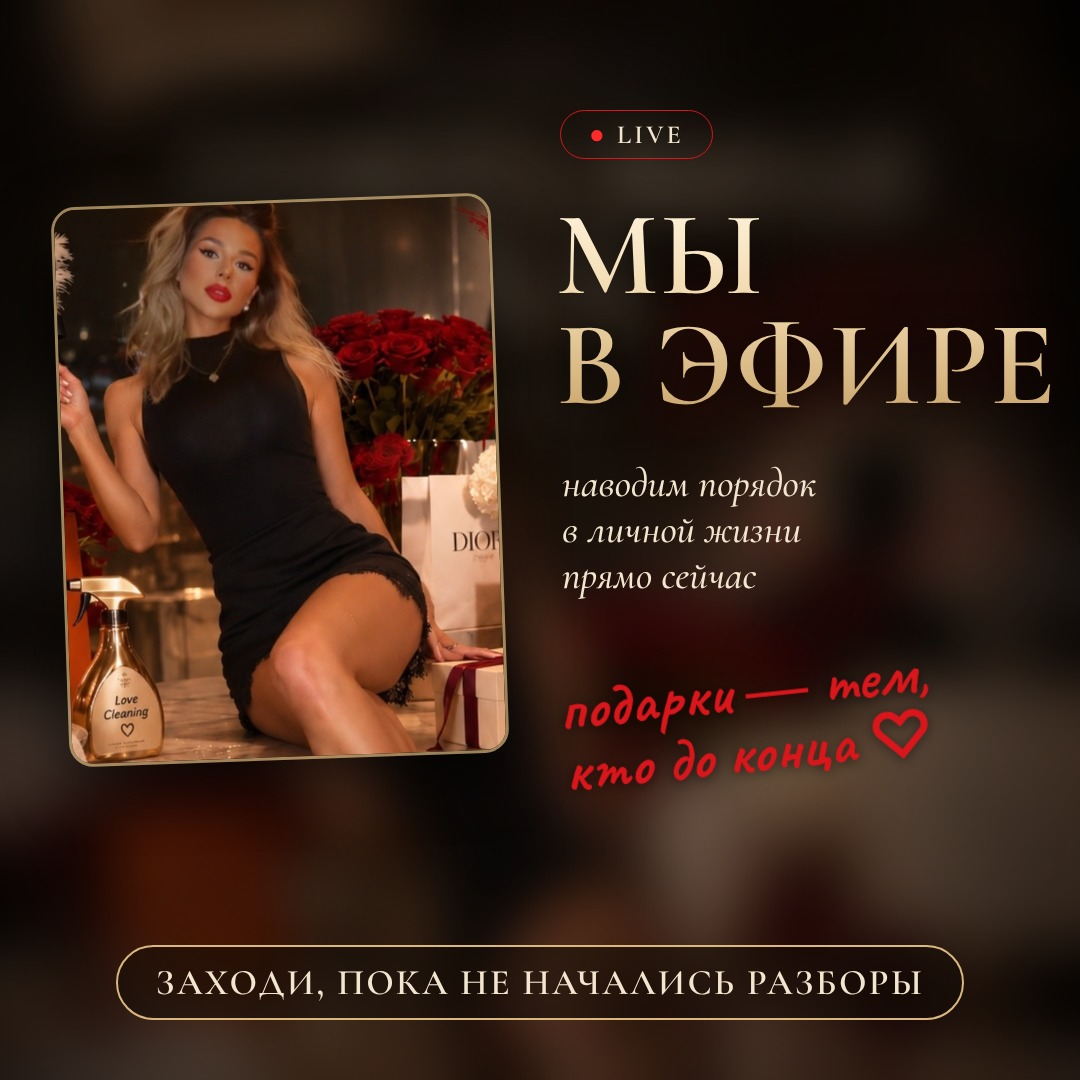
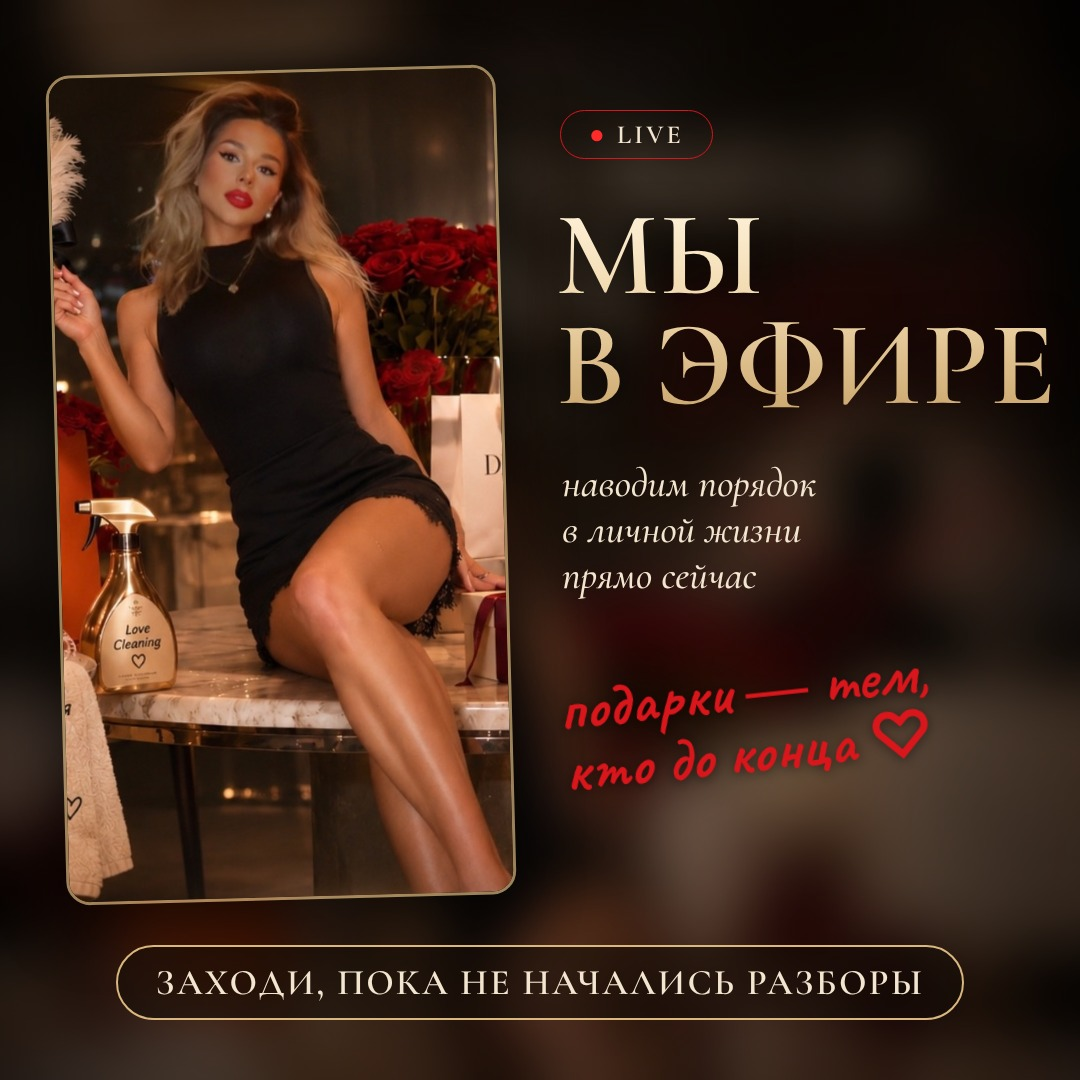
Обложки бота: подарочные коробки, фото без обрезки, жирный будильник
Claude-Session: https://claude.ai/code/session_01QvxPhZFmoV4wpS6odsdhe8

Changed region(s): [[0.0306, 0.0611, 0.4889, 0.8556]]

diff --git a/guides/src/bot_covers_2.js b/guides/src/bot_covers_2.js
@@ -2,6 +2,7 @@ const { chromium } = require('/opt/node22/lib/node_modules/playwright');
 const fs = require('fs'); const D = '/tmp/claude-0/-home-user-Ksu/f6de9bb4-c307-550f-96d3-574c512c8005/scratchpad/bc'; const F = '/tmp/claude-0/-home-user-Ksu/f6de9bb4-c307-550f-96d3-574c512c8005/scratchpad/mdw/w/node_modules/@fontsource';
 const css = `
 @font-face{font-family:Corm;font-weight:600;src:url(file://${F}/cormorant-garamond/files/cormorant-garamond-cyrillic-600-normal.woff2)}
+@font-face{font-family:Corm;font-weight:700;src:url(file://${F}/cormorant-garamond/files/cormorant-garamond-cyrillic-700-normal.woff2)}
 @font-face{font-family:Corm;font-weight:600;src:url(file://${F}/cormorant-garamond/files/cormorant-garamond-latin-600-normal.woff2);unicode-range:U+0000-00FF}
 @font-face{font-family:CormI;font-style:italic;font-weight:500;src:url(file://${F}/cormorant-garamond/files/cormorant-garamond-cyrillic-500-italic.woff2)}
 @font-face{font-family:CormI;font-style:italic;font-weight:500;src:url(file://${F}/cormorant-garamond/files/cormorant-garamond-latin-500-italic.woff2);unicode-range:U+0000-00FF}
@@ -25,6 +26,17 @@ body{width:1080px;height:1080px;overflow:hidden;position:relative;background:#12
 .paper{background:#efe4d0;color:#2a1a12;border-radius:6px;padding:22px 26px;box-shadow:0 12px 30px rgba(0,0,0,.5);font-family:Cav;font-weight:700}
 .abs{position:absolute}
 .mont{font-family:Mont;font-weight:500}
+.box{position:absolute;width:300px;height:220px}
+.box .lid{position:absolute;left:-8px;right:-8px;top:0;height:46px;border-radius:4px;box-shadow:0 6px 14px rgba(0,0,0,.35)}
+.box .body{position:absolute;left:0;right:0;top:40px;bottom:0;border-radius:3px;box-shadow:0 18px 40px rgba(0,0,0,.55);display:flex;align-items:center;justify-content:center;padding:12px 26px;text-align:center}
+.box .rv{position:absolute;left:50%;top:0;bottom:0;width:18px;margin-left:-9px}
+.box .bow{position:absolute;left:50%;top:-30px;width:120px;margin-left:-60px;height:44px}
+.box .bow i{position:absolute;top:6px;width:56px;height:30px;border-radius:50%}
+.box .bow i:first-child{left:0;transform:rotate(-14deg)}.box .bow i:last-child{right:0;transform:rotate(14deg)}
+.box .bow b{position:absolute;left:50%;top:12px;width:20px;height:20px;margin-left:-10px;border-radius:5px}
+.box .t{position:relative;z-index:2;font-family:Corm;font-weight:600;font-size:31px;line-height:1.02;text-transform:uppercase;letter-spacing:.02em;padding:8px 12px;border-radius:4px}
+.pill2{display:inline-block;border-radius:60px;padding:16px 44px;font-family:Corm;font-weight:700;font-size:42px;letter-spacing:.05em;text-transform:uppercase;color:#1a0f08;background:linear-gradient(180deg,#fff0d4,#d9b77e);box-shadow:0 10px 30px rgba(0,0,0,.5)}
+
 `;
 const P = (b) => `<!doctype html><html><head><meta charset=utf-8><style>${css}</style></head><body><div class=bg></div><div class=vig></div>${b}</body></html>`;
 const covers = {
@@ -34,9 +46,7 @@ const covers = {
  <div class="abs it" style="left:66px;top:340px;font-size:42px;line-height:1.1">в личной жизни<br>перед 2027 годом</div>
  <div class="photo" style="right:44px;top:70px;width:330px;height:480px;transform:rotate(2deg)"><img src="file://${D}/her.jpg"></div>
  <div class="abs red" style="left:66px;top:500px;font-size:62px">3 подарка — тем,<br>кто будет до конца ♡</div>
- <div class="abs paper" style="left:60px;top:700px;width:300px;height:170px;font-size:39px;line-height:1.05;transform:rotate(-2deg)">20 вопросов, прежде чем влюбиться</div>
- <div class="abs paper" style="left:390px;top:690px;width:300px;height:170px;font-size:39px;line-height:1.05;transform:rotate(1.5deg)">Как просить, не выпрашивая</div>
- <div class="abs paper" style="left:720px;top:705px;width:300px;height:170px;font-size:39px;line-height:1.05;transform:rotate(-1deg)">Ты не любишь, ты терпишь</div>
+ <div class="box" style="left:46px;top:690px;transform:rotate(-2deg)"><div class="body" style="background:#e8792f"><div class="rv" style="background:#5a3a22"></div><div class="t" style="color:#3b2414;background:rgba(255,240,225,.92)">20 вопросов,<br>прежде чем<br>влюбиться</div></div><div class="lid" style="background:#ef8a3e"><div class="rv" style="background:#5a3a22"></div></div><svg style="position:absolute;left:50%;top:-58px;margin-left:-70px;filter:drop-shadow(0 4px 6px rgba(0,0,0,.4))" width="140" height="80" viewBox="0 0 140 80"><path d="M70 62 C40 10,4 14,10 44 C14 64,48 66,70 62Z" fill="#5a3a22"/><path d="M70 62 C100 10,136 14,130 44 C126 64,92 66,70 62Z" fill="#5a3a22"/><path d="M62 62 L44 80 M78 62 L96 80" stroke="#5a3a22" stroke-width="12" stroke-linecap="round"/><rect x="58" y="50" width="24" height="22" rx="6" fill="#5a3a22"/><path d="M70 60 C52 30,26 28,24 44" stroke="rgba(0,0,0,.25)" stroke-width="3" fill="none"/><path d="M70 60 C88 30,114 28,116 44" stroke="rgba(0,0,0,.25)" stroke-width="3" fill="none"/></svg></div><div class="box" style="left:390px;top:676px;transform:rotate(1.5deg)"><div class="body" style="background:#f4efe6"><div class="rv" style="background:#111"></div><div class="t" style="color:#111;background:rgba(255,255,255,.95)">Как просить,<br>не выпрашивая</div></div><div class="lid" style="background:#fbf8f2"><div class="rv" style="background:#111"></div></div><svg style="position:absolute;left:50%;top:-58px;margin-left:-70px;filter:drop-shadow(0 4px 6px rgba(0,0,0,.4))" width="140" height="80" viewBox="0 0 140 80"><path d="M70 62 C40 10,4 14,10 44 C14 64,48 66,70 62Z" fill="#111"/><path d="M70 62 C100 10,136 14,130 44 C126 64,92 66,70 62Z" fill="#111"/><path d="M62 62 L44 80 M78 62 L96 80" stroke="#111" stroke-width="12" stroke-linecap="round"/><rect x="58" y="50" width="24" height="22" rx="6" fill="#111"/><path d="M70 60 C52 30,26 28,24 44" stroke="rgba(0,0,0,.25)" stroke-width="3" fill="none"/><path d="M70 60 C88 30,114 28,116 44" stroke="rgba(0,0,0,.25)" stroke-width="3" fill="none"/></svg></div><div class="box" style="left:734px;top:692px;transform:rotate(-1deg)"><div class="body" style="background:#7c1622"><div class="rv" style="background:#d9b77e"></div><div class="t" style="color:#f3e6d0;background:rgba(60,8,14,.75)">Ты не любишь,<br>ты терпишь</div></div><div class="lid" style="background:#8d1b28"><div class="rv" style="background:#d9b77e"></div></div><svg style="position:absolute;left:50%;top:-58px;margin-left:-70px;filter:drop-shadow(0 4px 6px rgba(0,0,0,.4))" width="140" height="80" viewBox="0 0 140 80"><path d="M70 62 C40 10,4 14,10 44 C14 64,48 66,70 62Z" fill="#d9b77e"/><path d="M70 62 C100 10,136 14,130 44 C126 64,92 66,70 62Z" fill="#d9b77e"/><path d="M62 62 L44 80 M78 62 L96 80" stroke="#d9b77e" stroke-width="12" stroke-linecap="round"/><rect x="58" y="50" width="24" height="22" rx="6" fill="#d9b77e"/><path d="M70 60 C52 30,26 28,24 44" stroke="rgba(0,0,0,.25)" stroke-width="3" fill="none"/><path d="M70 60 C88 30,114 28,116 44" stroke="rgba(0,0,0,.25)" stroke-width="3" fill="none"/></svg></div>
  <div class="abs" style="left:0;right:0;bottom:56px;text-align:center"><span class=pill>Воскресенье, 13:00 по МСК</span></div>`),
 '02_красный_флаг': P(`
  <div class="photo" style="right:70px;top:90px;width:360px;height:360px;border-color:rgba(216,22,28,.6)"><img src="file://${D}/man.jpg" style="filter:brightness(.9)"></div>
@@ -47,16 +57,16 @@ const covers = {
  <div class="abs red" style="left:470px;top:760px;font-size:76px">даже не начинай<br>влюбляться!</div>
  <div class="abs" style="left:64px;bottom:60px"><span class=pill>Воскресенье, 13:00 по МСК</span></div>`),
 '03_завтра': P(`
- <div class="photo" style="right:56px;top:70px;width:420px;height:760px"><img src="file://${D}/her_tall.jpg"></div>
+ <div class="photo" style="right:56px;top:70px;width:420px;height:760px"><img src="file://${D}/her_tall.jpg" style="object-position:50% 0"></div>
  <div class="abs" style="left:64px;top:80px"><span class=tag>Обратный отсчёт</span></div>
  <div class="abs gold" style="left:56px;top:170px;font-size:122px">Завтра</div>
  <div class="abs gold" style="left:60px;top:300px;font-size:112px">13:00</div>
  <div class="abs it" style="left:66px;top:440px;font-size:42px;line-height:1.15">генеральная уборка<br>в личной жизни</div>
  <div class="abs red" style="left:70px;top:630px;font-size:66px">не бери его<br>в 2027-й! ♡</div>
  <div class="abs it" style="left:66px;top:840px;font-size:36px">Записи не будет</div>
- <div class="abs" style="left:0;right:0;bottom:56px;text-align:center"><span class=pill>Поставь будильник на 12:55</span></div>`),
+ <div class="abs" style="left:0;right:0;bottom:56px;text-align:center"><span class=pill2>⏰ Поставь будильник на 12:55</span></div>`),
 '04_мы_в_эфире': P(`
- <div class="photo" style="left:60px;top:200px;width:440px;height:560px;transform:rotate(-2deg)"><img src="file://${D}/her.jpg"></div>
+ <div class="photo" style="left:56px;top:70px;width:450px;height:830px;transform:rotate(-1.5deg)"><img src="file://${D}/her_tall.jpg" style="object-position:50% 0"></div>
  <div class="abs" style="left:560px;top:110px"><span class=tag style="border-color:#d8161c"><span style="color:#ff2a2a">●</span> Live</span></div>
  <div class="abs gold" style="left:556px;top:200px;font-size:120px">Мы<br>в эфире</div>
  <div class="abs it" style="left:562px;top:460px;font-size:40px;line-height:1.15">наводим порядок<br>в личной жизни<br>прямо сейчас</div>
